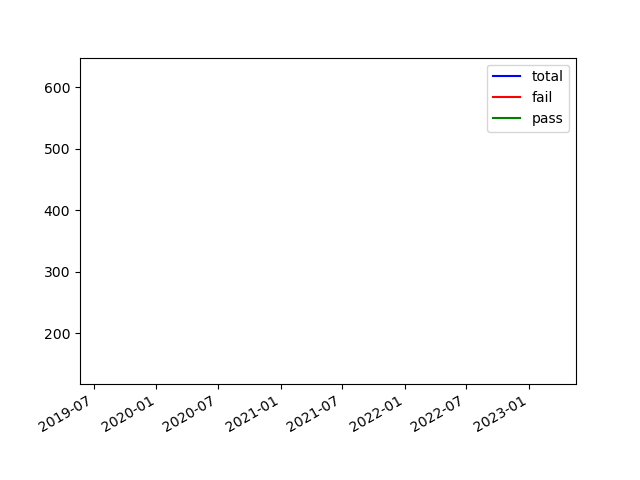
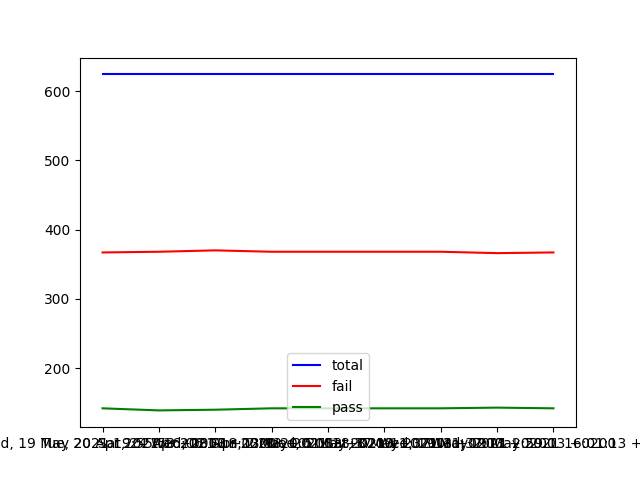
use an argument to generate the graph

diff --git a/graph.py b/graph.py
@@ -1,7 +1,8 @@
 import matplotlib.pyplot as plt
 import pandas as pd
+import sys
 
-d = pd.read_json("gnu-result.json")
+d = pd.read_json(sys.argv[1])
 df = pd.DataFrame(d)
 df = df.transpose()
 print(df)
